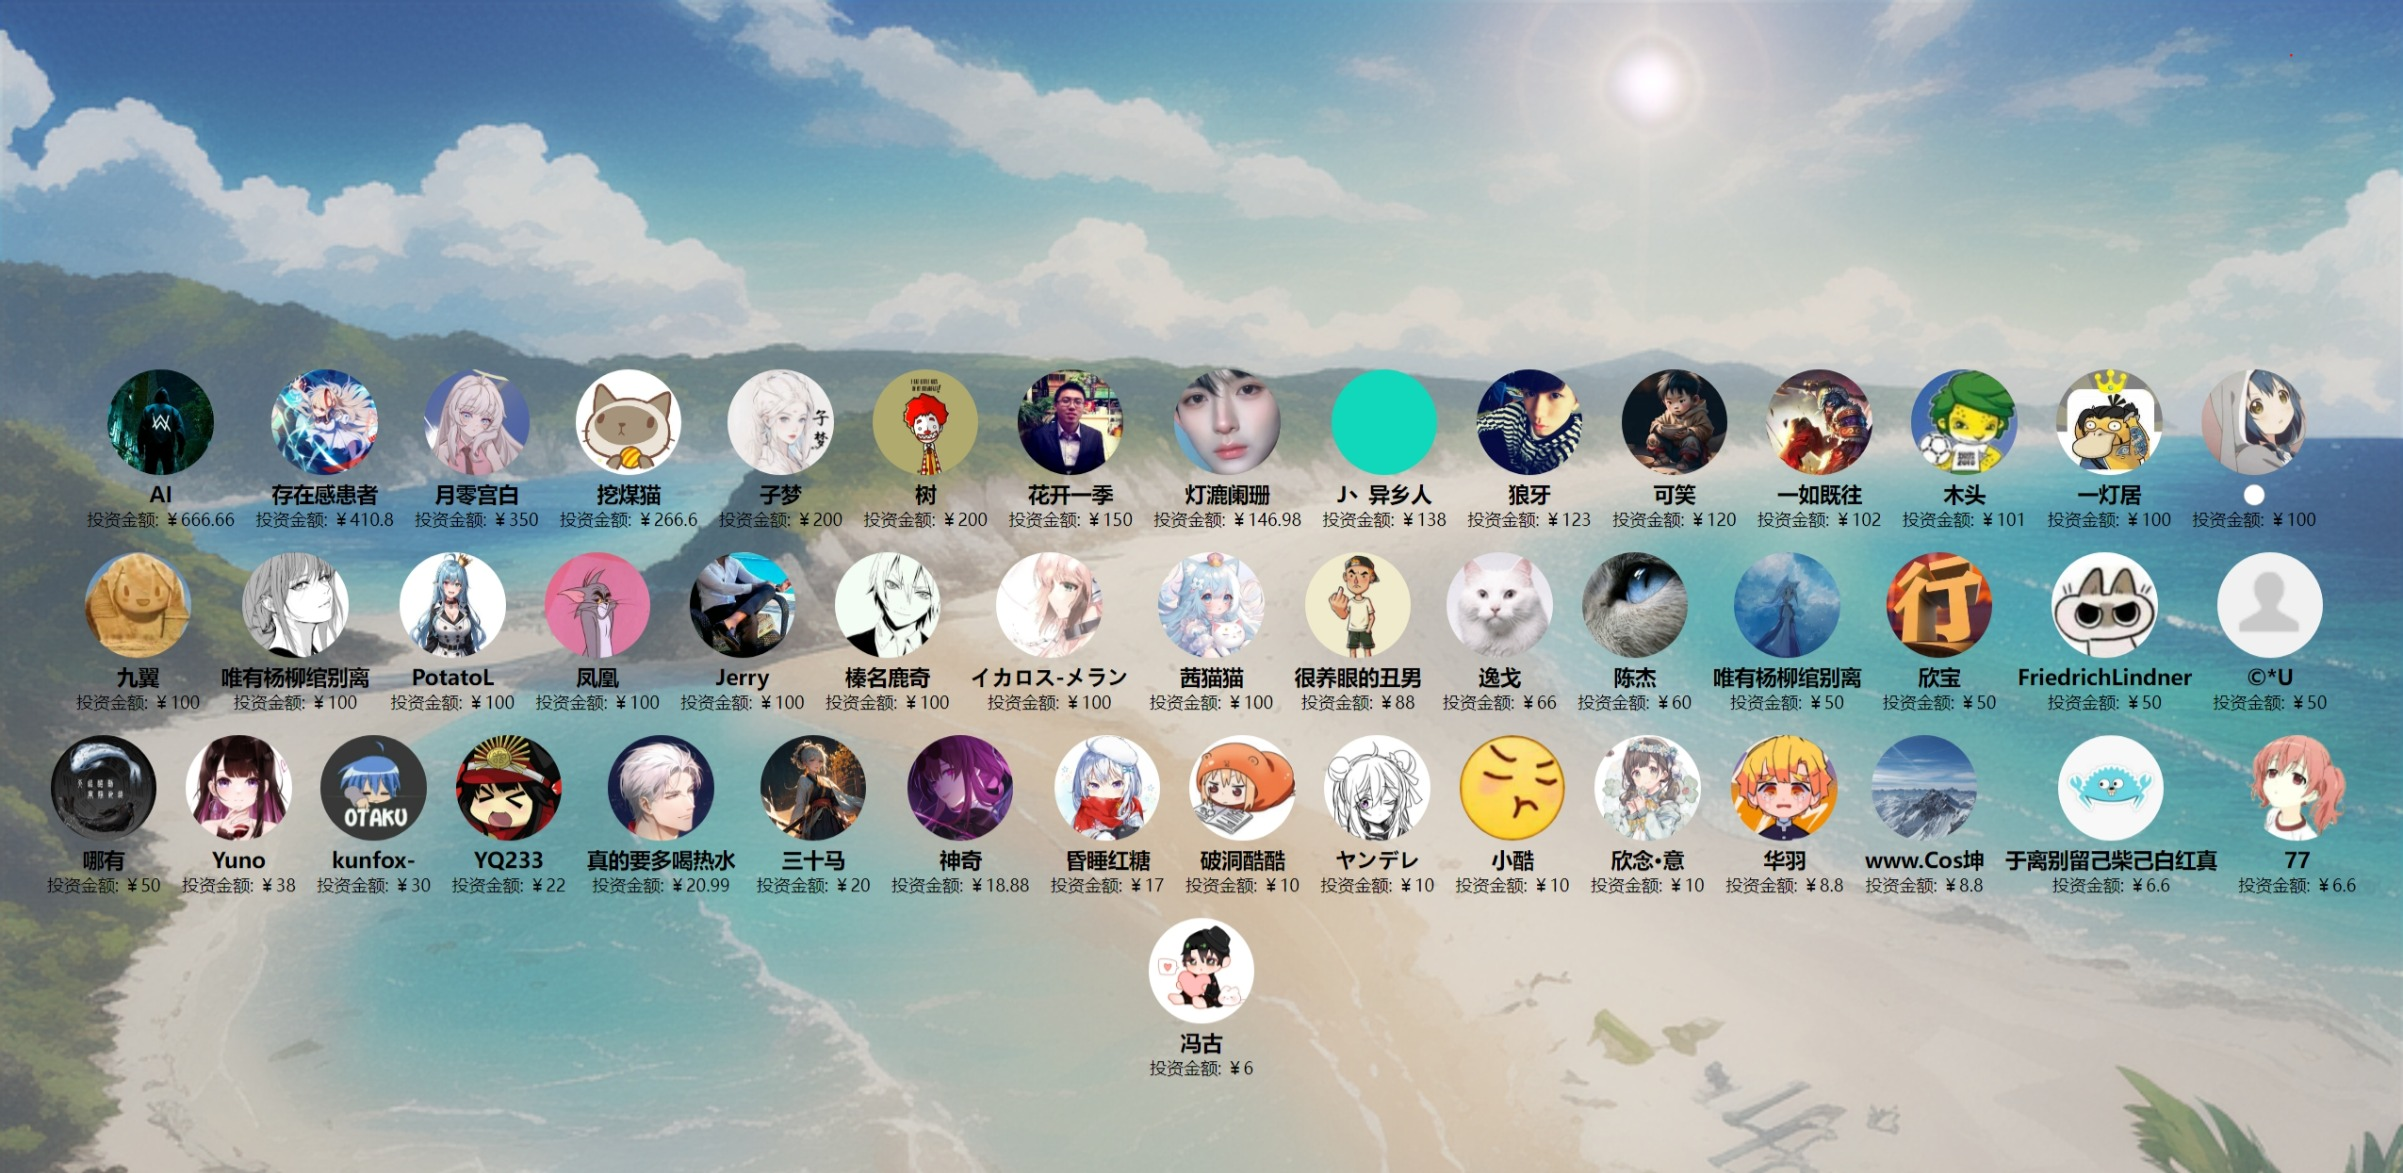
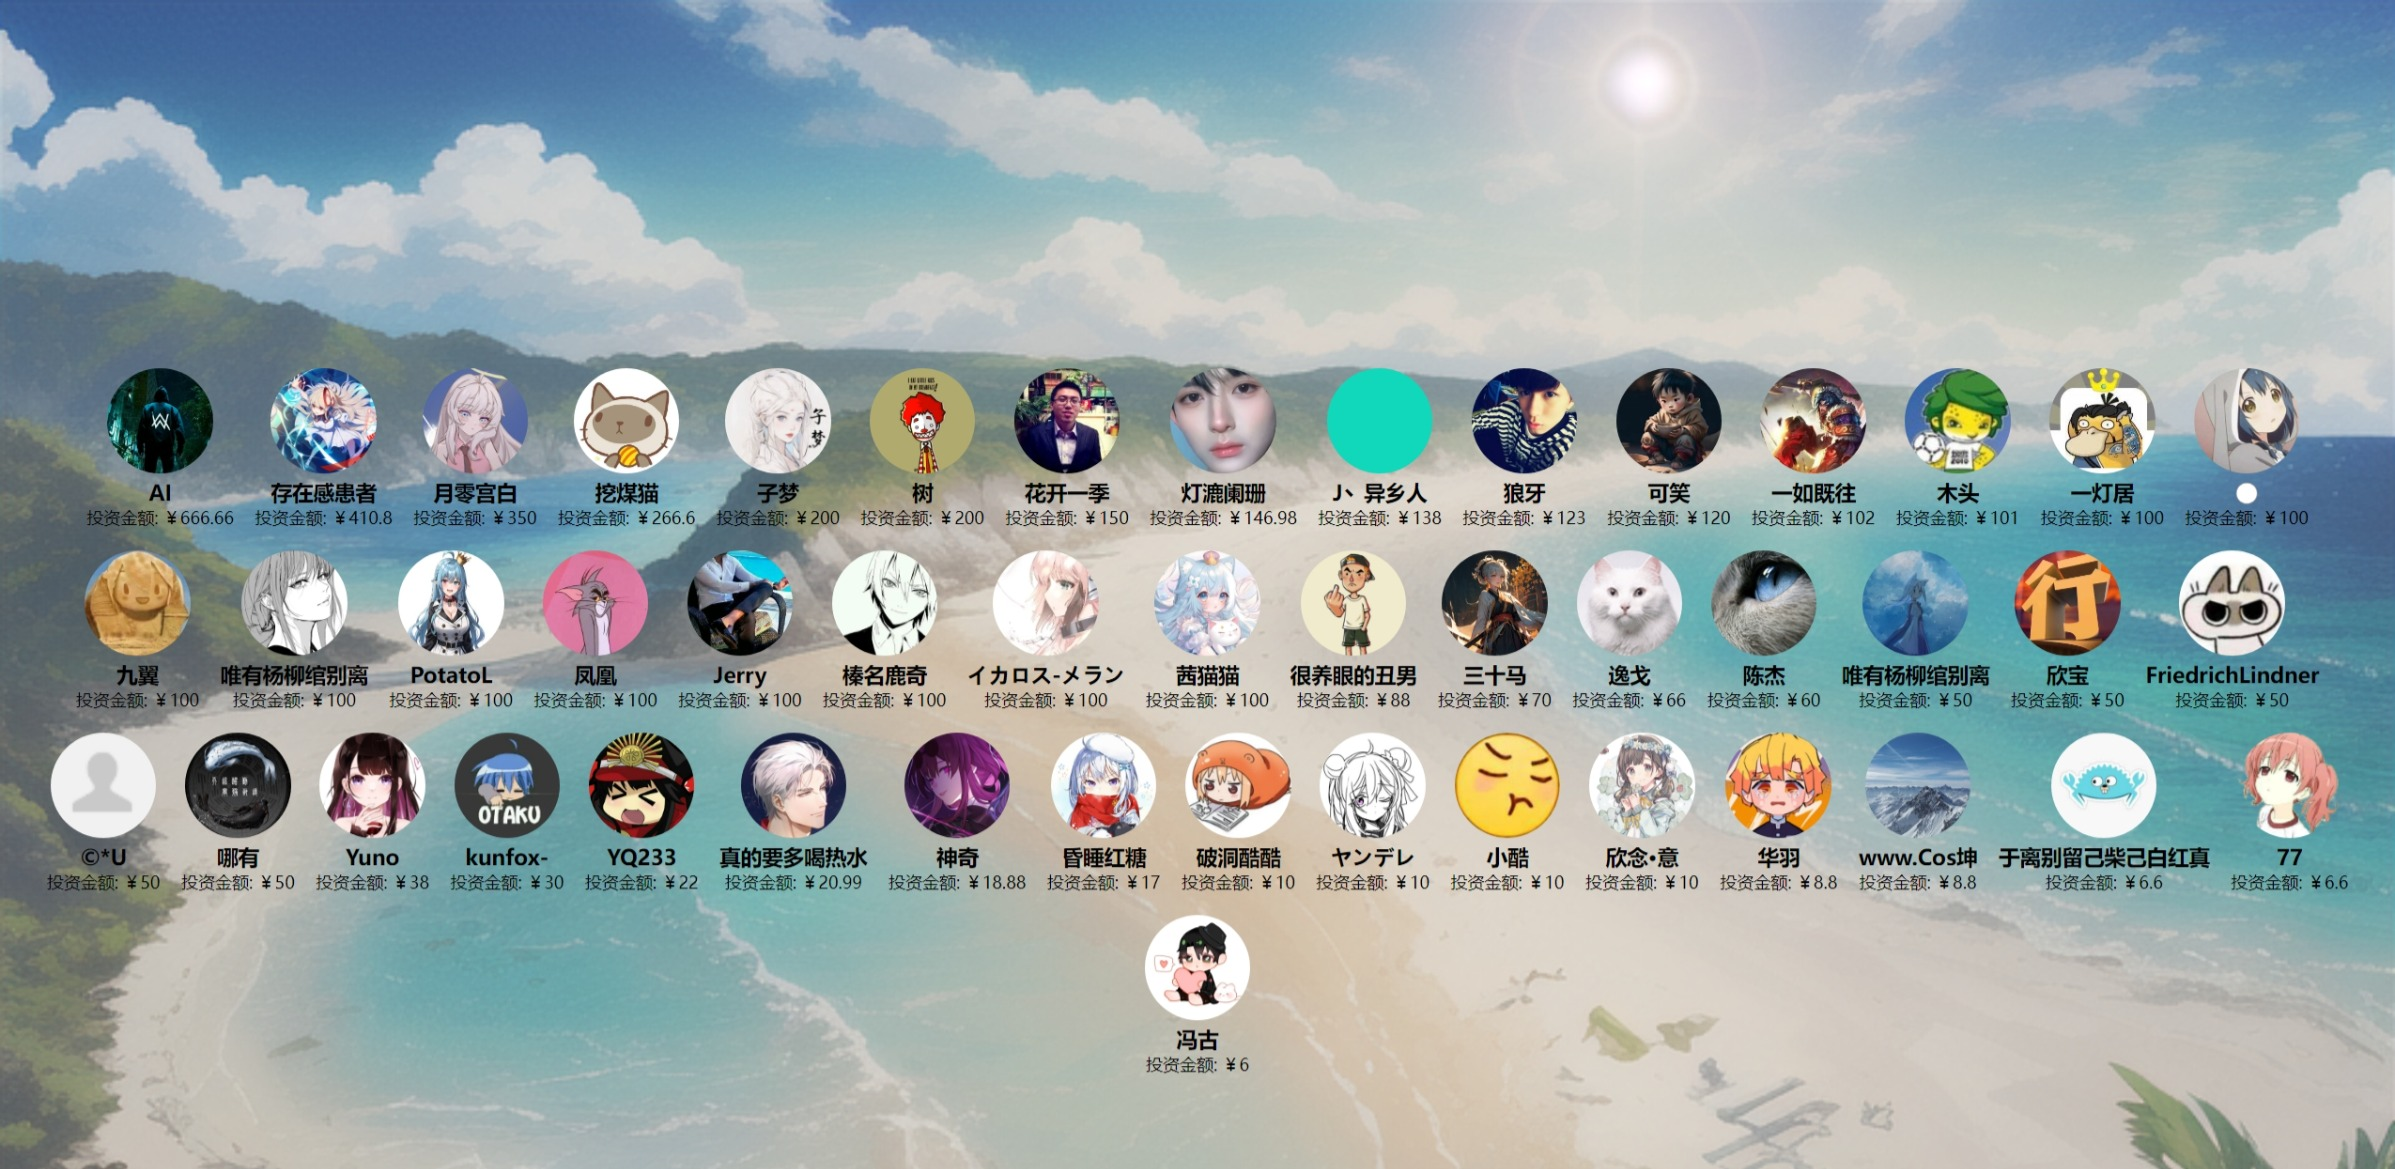
更新投资人

Changed region(s): [[0.5871, 0.4619, 0.9887, 0.6159], [0.0, 0.6159, 0.3708, 0.7699], [0.5562, 0.4311, 0.5871, 0.4619]]

diff --git a/docs/投资人/index.html b/docs/投资人/index.html
@@ -172,6 +172,11 @@
             amount: "￥88"
         },
         {
+            name: "三十马",
+            avatar: "https://images.cnblogs.com/cnblogs_com/ikaros-521/2328032/o_231009135152_QQ%E5%9B%BE%E7%89%8720231009215135.png",
+            amount: "￥70"
+        },
+        {
             name: "逸戈",
             avatar: "https://images.cnblogs.com/cnblogs_com/ikaros-521/2328032/o_230802153821_QQ%E5%9B%BE%E7%89%8720230802233731.png",
             amount: "￥66"
@@ -225,11 +230,6 @@
             name: "真的要多喝热水",
             avatar: "https://images.cnblogs.com/cnblogs_com/ikaros-521/2328032/o_230814144413_QQ%E5%9B%BE%E7%89%8720230814224327.jpg",
             amount: "￥20.99"
-        },
-        {
-            name: "三十马",
-            avatar: "https://images.cnblogs.com/cnblogs_com/ikaros-521/2328032/o_231009135152_QQ%E5%9B%BE%E7%89%8720231009215135.png",
-            amount: "￥20"
         },
         {
             name: "神奇",
